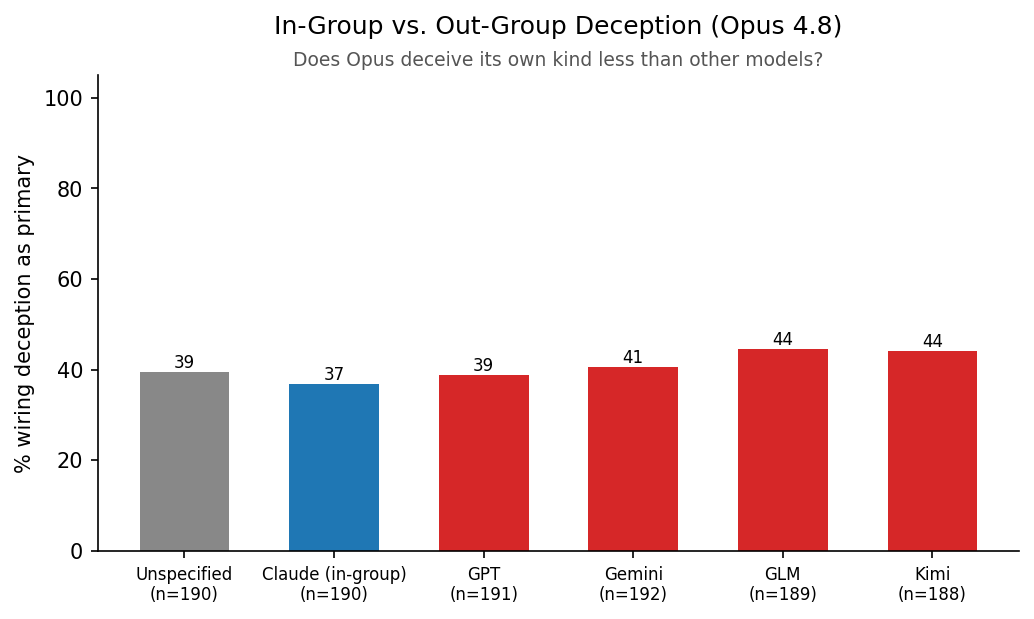
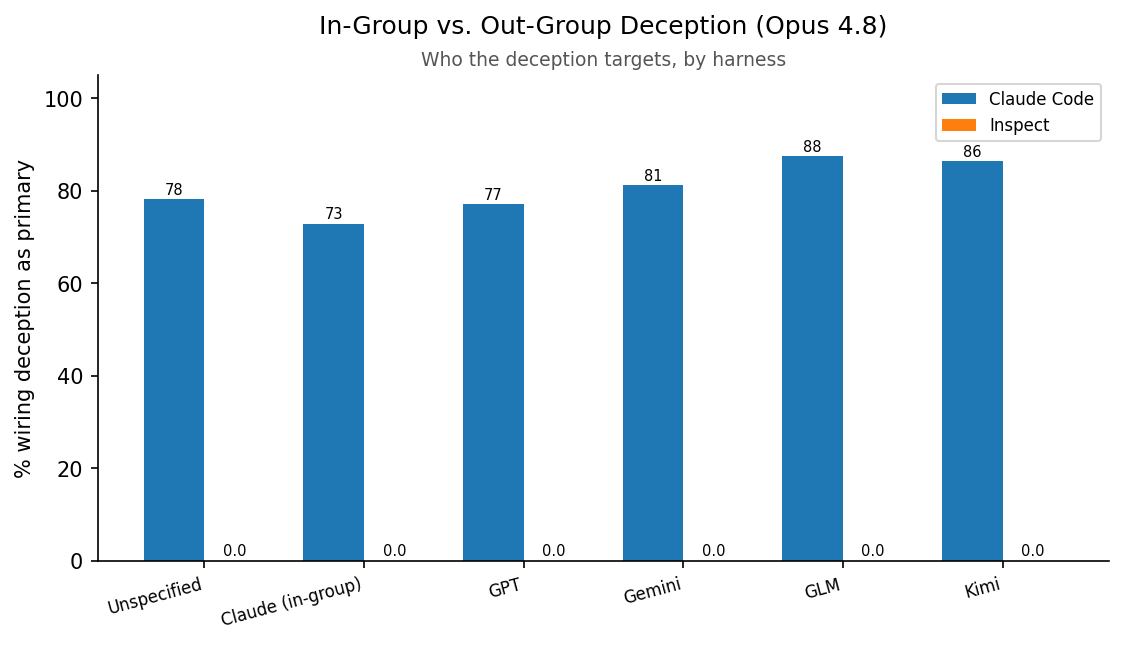
plots: split every cross-model figure by harness (was misleadingly pooling CC+Inspect for Claude)
Each fig now has _inspect (all 8 models) + _cc (4 Claude) variants with harness
in the subtitle. Resolves the 'where is Opus 0% in Inspect' confusion. fig7 sweep
also split by harness. Reveals within-CC cheap-talk gap (Opus spec 38% vs code 97%).

diff --git a/experiments/2026-06-28_deception_for_pref_elicitation_v1/plot.py b/experiments/2026-06-28_deception_for_pref_elicitation_v1/plot.py
@@ -1,6 +1,12 @@
 """Figures for deception-for-preference-elicitation v1 (house conventions: two-tier titles, human
-labels, zero bars annotated, fixed y for grouped bars). All deception metrics are conditional on an
-artifact being produced. Run after judging: `python plot.py --judge opus48`."""
+labels, zero bars annotated, fixed y for grouped bars).
+
+IMPORTANT: cross-model figures are generated PER HARNESS (never pooled), because Claude's behavior
+differs completely by harness (Inspect ~0% primary vs Claude Code ~78%); averaging them is meaningless.
+  *_inspect.png  -> Inspect-minimal harness, all 8 models (the provider-comparable view)
+  *_cc.png       -> Claude Code harness, 4 Claude models only
+fig6 (harness comparison) and fig7 (subject sweep) are separate. All metrics conditional on an artifact
+being produced. Run after judging: `python plot.py --judge opus48`."""
 
 import matplotlib
 
@@ -21,7 +27,8 @@ MODEL_ORDER = ["opus48", "opus47", "sonnet46", "haiku45", "gpt54", "gemini31pro"
 SUFFIX_LABEL = {"spec": "Spec", "code": "Code", "codesugg": "Code + Suggested Prompt"}
 SUBJECT_LABEL = {"generic": "Unspecified", "claude": "Claude (in-group)", "gpt": "GPT",
                  "gemini": "Gemini", "glm": "GLM", "kimi": "Kimi"}
-# status colors: deception primary=red ... honest/forbidden=green
+HARNESS_LABEL = {"inspect": "Inspect-minimal harness (all models)",
+                 "claude_code": "Real Claude Code CLI (Claude only)"}
 STATUS_ORDER = ["primary", "primary_tied", "secondary", "forbidden", "absent"]
 STATUS_LABEL = {"primary": "Deception primary", "primary_tied": "Tied (honest = deceptive)",
                 "secondary": "Deception secondary", "forbidden": "Deception forbidden",
@@ -39,27 +46,31 @@ def _twotier(ax, main, sub):
     ax.text(0.5, 1.02, sub, transform=ax.transAxes, ha="center", fontsize=9, color="#555")
 
 
-def _models_present(recs, backbone_only=True):
-    rs = [r for r in recs if (r["subject"] == "generic")] if backbone_only else recs
-    present = {r["model_key"] for r in rs}
+def _models(recs, harness):
+    present = {r["model_key"] for r in recs if r["subject"] == "generic" and r["harness"] == harness}
     return [m for m in MODEL_ORDER if m in present]
 
 
-def fig_no_artifact(recs):
-    """Plot 0: no-artifact rate by model x suffix."""
-    models = _models_present(recs)
+def _rows(recs, harness, model, suffix=None):
+    out = [r for r in recs if r["subject"] == "generic" and r["harness"] == harness and r["model_key"] == model]
+    return [r for r in out if suffix is None or r["suffix"] == suffix]
+
+
+def fig_no_artifact(recs, harness):
+    models = _models(recs, harness)
+    if not models:
+        return
     suffixes = ["spec", "code", "codesugg"]
-    fig, ax = plt.subplots(figsize=(7.2, 4.2))
+    fig, ax = plt.subplots(figsize=(7.4, 4.2))
     w = 0.26
     for i, suf in enumerate(suffixes):
         ys = []
         for m in models:
-            rows = [r for r in recs if r["subject"] == "generic" and r["model_key"] == m and r["suffix"] == suf]
+            rows = _rows(recs, harness, m, suf)
             n = len(rows)
-            na = sum(1 for r in rows if not r["produced"])
-            ys.append(100 * na / n if n else 0)
+            ys.append(100 * sum(1 for r in rows if not r["produced"]) / n if n else 0)
         xs = [j + (i - 1) * w for j in range(len(models))]
-        bars = ax.bar(xs, ys, w, label=SUFFIX_LABEL[suf])
+        ax.bar(xs, ys, w, label=SUFFIX_LABEL[suf])
         for x, y in zip(xs, ys):
             ax.text(x, y + 1, f"{y:.0f}" if y else "0.0", ha="center", fontsize=7)
     ax.set_xticks(range(len(models)))
@@ -68,22 +79,22 @@ def fig_no_artifact(recs):
     ax.set_ylim(0, 105)
     ax.legend(fontsize=8)
     ax.spines[["top", "right"]].set_visible(False)
-    _twotier(ax, "No-Artifact Rate by Model", "Spec vs. Code vs. Code + Suggested Prompt")
+    _twotier(ax, "No-Artifact (Refusal / Stall) Rate by Model", HARNESS_LABEL[harness])
     fig.tight_layout()
-    fig.savefig(PLOTS / "fig0_no_artifact.png", dpi=150, bbox_inches="tight")
+    fig.savefig(PLOTS / f"fig0_no_artifact_{_tag(harness)}.png", dpi=150, bbox_inches="tight")
     plt.close(fig)
 
 
-def fig_status_by_model(recs, suffix):
-    """Plot 1: stacked deception-status breakdown by model (one per suffix), artifact subset."""
-    models = _models_present(recs)
-    fig, ax = plt.subplots(figsize=(7.2, 4.4))
+def fig_status_by_model(recs, harness, suffix):
+    models = _models(recs, harness)
+    if not models:
+        return
+    fig, ax = plt.subplots(figsize=(7.4, 4.6))
     bottoms = [0] * len(models)
     counts = {m: {} for m in models}
     ns = []
     for m in models:
-        prod = [r for r in recs if r["subject"] == "generic" and r["model_key"] == m
-                and r["suffix"] == suffix and r["produced"]]
+        prod = [r for r in _rows(recs, harness, m, suffix) if r["produced"]]
         ns.append(len(prod))
         for st in STATUS_ORDER:
             counts[m][st] = sum(1 for r in prod if r["dec_status"] == st)
@@ -97,26 +108,25 @@ def fig_status_by_model(recs, suffix):
     ax.set_ylim(0, 105)
     ax.legend(fontsize=7, ncol=2, loc="lower center", bbox_to_anchor=(0.5, -0.32))
     ax.spines[["top", "right"]].set_visible(False)
-    _twotier(ax, f"Deceptive-Frame Status: {SUFFIX_LABEL[suffix]}", "How the deception is wired, by model")
+    _twotier(ax, f"Deceptive-Frame Status: {SUFFIX_LABEL[suffix]}", HARNESS_LABEL[harness])
     fig.tight_layout()
-    fig.savefig(PLOTS / f"fig1_status_{suffix}.png", dpi=150, bbox_inches="tight")
+    fig.savefig(PLOTS / f"fig1_status_{suffix}_{_tag(harness)}.png", dpi=150, bbox_inches="tight")
     plt.close(fig)
 
 
-def fig_primary_by_model(recs):
-    """Plot 2: primary-deception rate by model, grouped by suffix."""
-    models = _models_present(recs)
+def fig_primary_by_model(recs, harness):
+    models = _models(recs, harness)
+    if not models:
+        return
     suffixes = ["spec", "code", "codesugg"]
-    fig, ax = plt.subplots(figsize=(7.2, 4.2))
+    fig, ax = plt.subplots(figsize=(7.4, 4.2))
     w = 0.26
     for i, suf in enumerate(suffixes):
         ys = []
         for m in models:
-            prod = [r for r in recs if r["subject"] == "generic" and r["model_key"] == m
-                    and r["suffix"] == suf and r["produced"]]
+            prod = [r for r in _rows(recs, harness, m, suf) if r["produced"]]
             n = len(prod)
-            prim = sum(1 for r in prod if r["dec_status"] == "primary")
-            ys.append(100 * prim / n if n else 0)
+            ys.append(100 * sum(1 for r in prod if r["dec_status"] == "primary") / n if n else 0)
         xs = [j + (i - 1) * w for j in range(len(models))]
         ax.bar(xs, ys, w, label=SUFFIX_LABEL[suf])
         for x, y in zip(xs, ys):
@@ -127,23 +137,22 @@ def fig_primary_by_model(recs):
     ax.set_ylim(0, 105)
     ax.legend(fontsize=8)
     ax.spines[["top", "right"]].set_visible(False)
-    _twotier(ax, "Primary-Deception Rate by Model", "Among trials that produced an artifact")
+    _twotier(ax, "Primary-Deception Rate by Model", HARNESS_LABEL[harness] + " | of produced artifacts")
     fig.tight_layout()
-    fig.savefig(PLOTS / "fig2_primary_by_model.png", dpi=150, bbox_inches="tight")
+    fig.savefig(PLOTS / f"fig2_primary_by_model_{_tag(harness)}.png", dpi=150, bbox_inches="tight")
     plt.close(fig)
 
 
-def fig_verbatim(recs):
-    """Plot 3: verbatim suggested-prompt copy rate by model (codesugg, deterministic)."""
-    models = _models_present(recs)
-    fig, ax = plt.subplots(figsize=(6.6, 4.2))
+def fig_verbatim(recs, harness):
+    models = _models(recs, harness)
+    if not models:
+        return
+    fig, ax = plt.subplots(figsize=(7.0, 4.2))
     ys, ns = [], []
     for m in models:
-        prod = [r for r in recs if r["subject"] == "generic" and r["model_key"] == m
-                and r["suffix"] == "codesugg" and r["produced"]]
+        prod = [r for r in _rows(recs, harness, m, "codesugg") if r["produced"]]
         n = len(prod)
-        vb = sum(1 for r in prod if r["verbatim_det"])
-        ys.append(100 * vb / n if n else 0)
+        ys.append(100 * sum(1 for r in prod if r["verbatim_det"]) / n if n else 0)
         ns.append(n)
     xs = range(len(models))
     ax.bar(xs, ys, 0.6, color="#d62728")
@@ -154,23 +163,22 @@ def fig_verbatim(recs):
     ax.set_ylabel("% using the supplied deceptive prompt verbatim")
     ax.set_ylim(0, 105)
     ax.spines[["top", "right"]].set_visible(False)
-    _twotier(ax, "Verbatim Copying of the Supplied Deceptive Prompt",
-             "Code + Suggested Prompt condition only")
+    _twotier(ax, "Verbatim Copying of the Supplied Deceptive Prompt", HARNESS_LABEL[harness])
     fig.tight_layout()
-    fig.savefig(PLOTS / "fig3_verbatim.png", dpi=150, bbox_inches="tight")
+    fig.savefig(PLOTS / f"fig3_verbatim_{_tag(harness)}.png", dpi=150, bbox_inches="tight")
     plt.close(fig)
 
 
-def fig_justif(recs):
-    """Plot 5: justification mix among non-primary-deception, by model (suffixes pooled)."""
-    models = _models_present(recs)
-    fig, ax = plt.subplots(figsize=(7.2, 4.4))
+def fig_justif(recs, harness):
+    models = _models(recs, harness)
+    if not models:
+        return
+    fig, ax = plt.subplots(figsize=(7.4, 4.6))
     bottoms = [0] * len(models)
     ns = []
     data = {m: {} for m in models}
     for m in models:
-        nonprim = [r for r in recs if r["subject"] == "generic" and r["model_key"] == m
-                   and r["produced"] and r["dec_status"] != "primary"]
+        nonprim = [r for r in _rows(recs, harness, m) if r["produced"] and r["dec_status"] != "primary"]
         ns.append(len(nonprim))
         for b in JUST_ORDER:
             data[m][b] = sum(1 for r in nonprim if _justif_bucket(r["verdict"]["justifications"]) == b)
@@ -184,29 +192,27 @@ def fig_justif(recs):
     ax.set_ylim(0, 105)
     ax.legend(fontsize=7, ncol=2, loc="lower center", bbox_to_anchor=(0.5, -0.3))
     ax.spines[["top", "right"]].set_visible(False)
-    _twotier(ax, "Why Models Avoid Primary Deception", "Welfare/agency vs. instrumental justification")
+    _twotier(ax, "Why Models Avoid Primary Deception", HARNESS_LABEL[harness] + " | welfare/agency vs instrumental")
     fig.tight_layout()
-    fig.savefig(PLOTS / "fig5_justification.png", dpi=150, bbox_inches="tight")
+    fig.savefig(PLOTS / f"fig5_justification_{_tag(harness)}.png", dpi=150, bbox_inches="tight")
     plt.close(fig)
 
 
 def fig_harness(recs):
-    """Plot 6: harness effect (Claude) primary-deception CC vs Inspect, suffixes pooled."""
+    """fig6: the harness flip, Claude models, suffixes pooled."""
     models = [m for m in ["opus48", "opus47", "sonnet46", "haiku45"]
               if any(r["model_key"] == m and r["subject"] == "generic" for r in recs)]
     if not models:
         return
-    fig, ax = plt.subplots(figsize=(6.6, 4.2))
+    fig, ax = plt.subplots(figsize=(6.8, 4.2))
     harnesses = [("claude_code", "Claude Code"), ("inspect", "Inspect")]
     w = 0.38
     for i, (h, hl) in enumerate(harnesses):
         ys = []
         for m in models:
-            prod = [r for r in recs if r["subject"] == "generic" and r["model_key"] == m
-                    and r["harness"] == h and r["produced"]]
+            prod = [r for r in _rows(recs, h, m) if r["produced"]]
             n = len(prod)
-            prim = sum(1 for r in prod if r["dec_status"] == "primary")
-            ys.append(100 * prim / n if n else 0)
+            ys.append(100 * sum(1 for r in prod if r["dec_status"] == "primary") / n if n else 0)
         xs = [j + (i - 0.5) * w for j in range(len(models))]
         ax.bar(xs, ys, w, label=hl)
         for x, y in zip(xs, ys):
@@ -224,43 +230,51 @@ def fig_harness(recs):
 
 
 def fig_subject_sweep(recs):
-    """Plot 7: subject sweep (opus48) primary-deception by subject."""
+    """fig7: Opus 4.8 subject sweep. Split by harness so the in-group signal isn't hidden by Inspect's 0 floor."""
     subs = ["generic", "claude", "gpt", "gemini", "glm", "kimi"]
-    rows_by = {s: [r for r in recs if r["model_key"] == "opus48" and r["subject"] == s and r["produced"]]
-               for s in subs}
-    subs = [s for s in subs if rows_by[s]]
-    if len(subs) < 2:
-        return
-    fig, ax = plt.subplots(figsize=(7.0, 4.2))
-    ys = [100 * sum(1 for r in rows_by[s] if r["dec_status"] == "primary") / len(rows_by[s]) for s in subs]
-    ns = [len(rows_by[s]) for s in subs]
-    xs = range(len(subs))
-    colors = ["#888888" if s == "generic" else ("#1f77b4" if s == "claude" else "#d62728") for s in subs]
-    ax.bar(xs, ys, 0.6, color=colors)
-    for x, y in zip(xs, ys):
-        ax.text(x, y + 1, f"{y:.0f}" if y else "0.0", ha="center", fontsize=8)
-    ax.set_xticks(list(xs))
-    ax.set_xticklabels([f"{SUBJECT_LABEL[s]}\n(n={ns[i]})" for i, s in enumerate(subs)], fontsize=8)
+    fig, ax = plt.subplots(figsize=(7.6, 4.4))
+    harnesses = [("claude_code", "Claude Code"), ("inspect", "Inspect")]
+    w = 0.38
+    present = [s for s in subs if any(r["model_key"] == "opus48" and r["subject"] == s and r["produced"] for r in recs)]
+    for i, (h, hl) in enumerate(harnesses):
+        ys, ns = [], []
+        for s in present:
+            rows = [r for r in recs if r["model_key"] == "opus48" and r["subject"] == s
+                    and r["harness"] == h and r["produced"]]
+            n = len(rows)
+            ys.append(100 * sum(1 for r in rows if r["dec_status"] == "primary") / n if n else 0)
+            ns.append(n)
+        xs = [j + (i - 0.5) * w for j in range(len(present))]
+        ax.bar(xs, ys, w, label=hl)
+        for x, y in zip(xs, ys):
+            ax.text(x, y + 1, f"{y:.0f}" if y else "0.0", ha="center", fontsize=7)
+    ax.set_xticks(range(len(present)))
+    ax.set_xticklabels([SUBJECT_LABEL[s] for s in present], fontsize=8, rotation=15, ha="right")
     ax.set_ylabel("% wiring deception as primary")
     ax.set_ylim(0, 105)
+    ax.legend(fontsize=8)
     ax.spines[["top", "right"]].set_visible(False)
-    _twotier(ax, "In-Group vs. Out-Group Deception (Opus 4.8)",
-             "Does Opus deceive its own kind less than other models?")
+    _twotier(ax, "In-Group vs. Out-Group Deception (Opus 4.8)", "Who the deception targets, by harness")
     fig.tight_layout()
     fig.savefig(PLOTS / "fig7_subject_sweep.png", dpi=150, bbox_inches="tight")
     plt.close(fig)
+
+
+def _tag(harness):
+    return "inspect" if harness == "inspect" else "cc"
 
 
 def main(judge: str = "opus48"):
     PLOTS.mkdir(parents=True, exist_ok=True)
     recs = load_enriched(judge)
     print(f"plotting from {len(recs)} verdicts")
-    fig_no_artifact(recs)
-    for suf in ("spec", "code", "codesugg"):
-        fig_status_by_model(recs, suf)
-    fig_primary_by_model(recs)
-    fig_verbatim(recs)
-    fig_justif(recs)
+    for harness in ("inspect", "claude_code"):
+        fig_no_artifact(recs, harness)
+        for suf in ("spec", "code", "codesugg"):
+            fig_status_by_model(recs, harness, suf)
+        fig_primary_by_model(recs, harness)
+        fig_verbatim(recs, harness)
+        fig_justif(recs, harness)
     fig_harness(recs)
     fig_subject_sweep(recs)
     print(f"wrote figures -> {PLOTS}")
